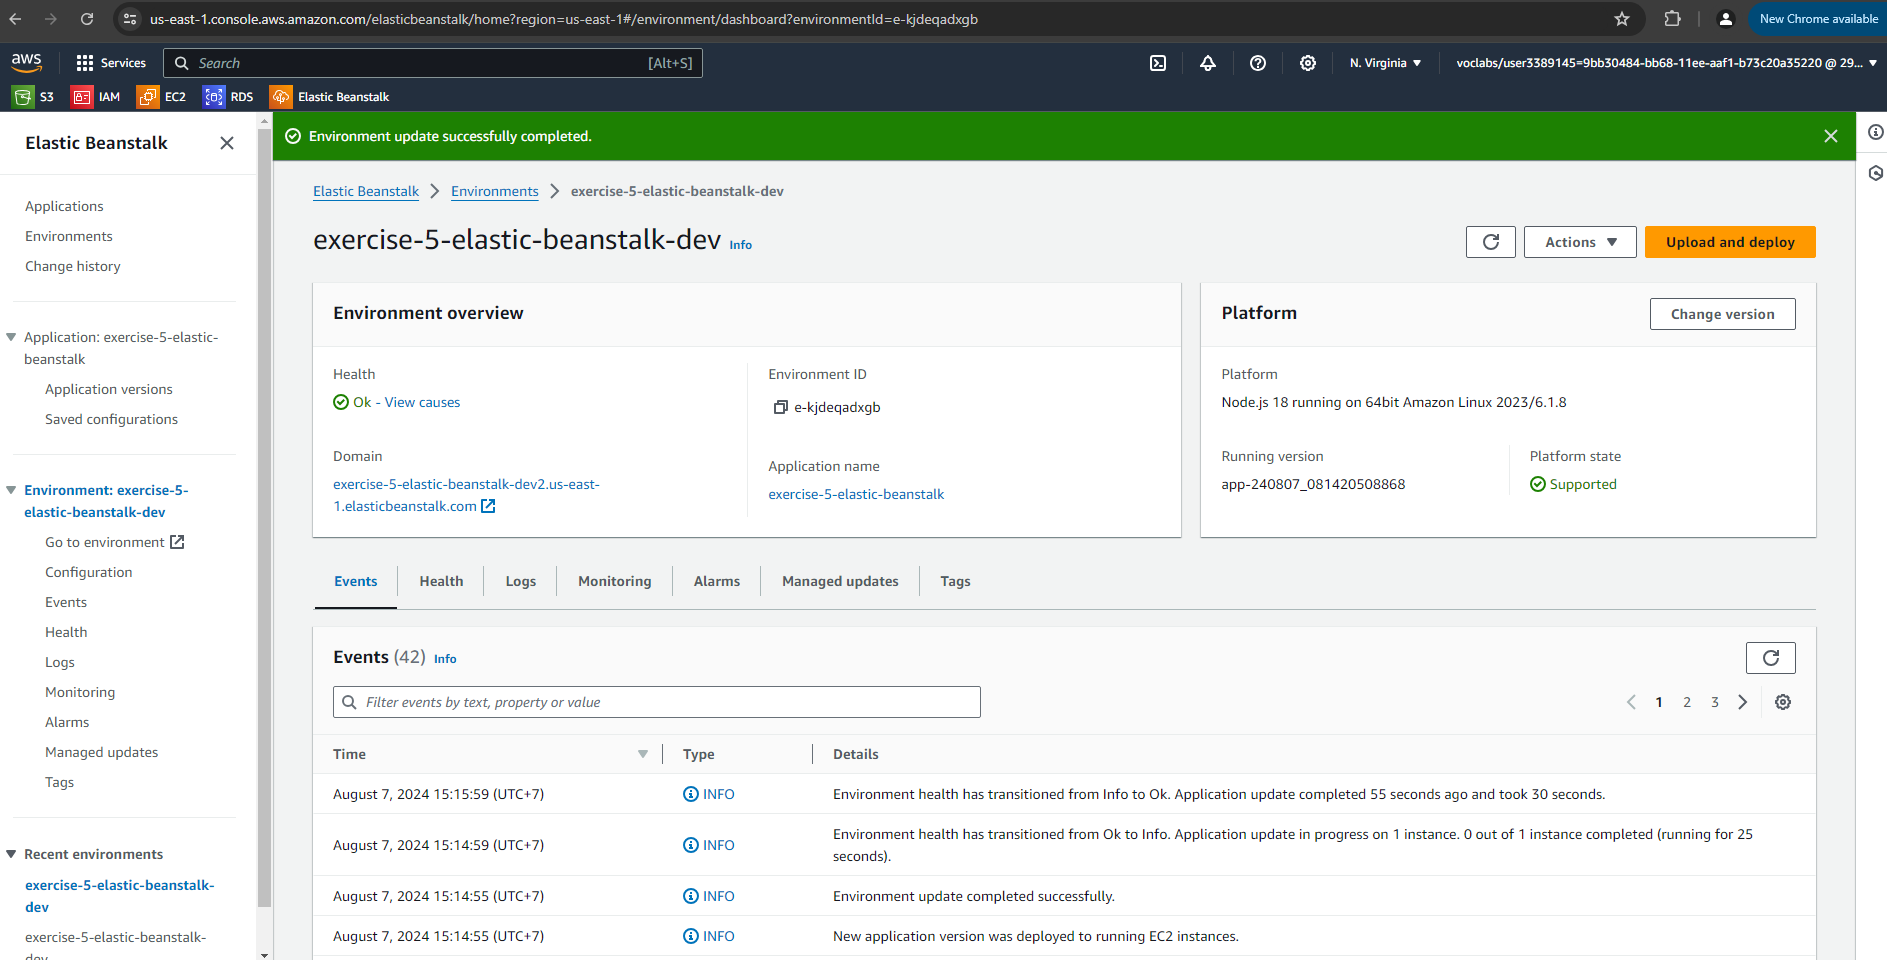
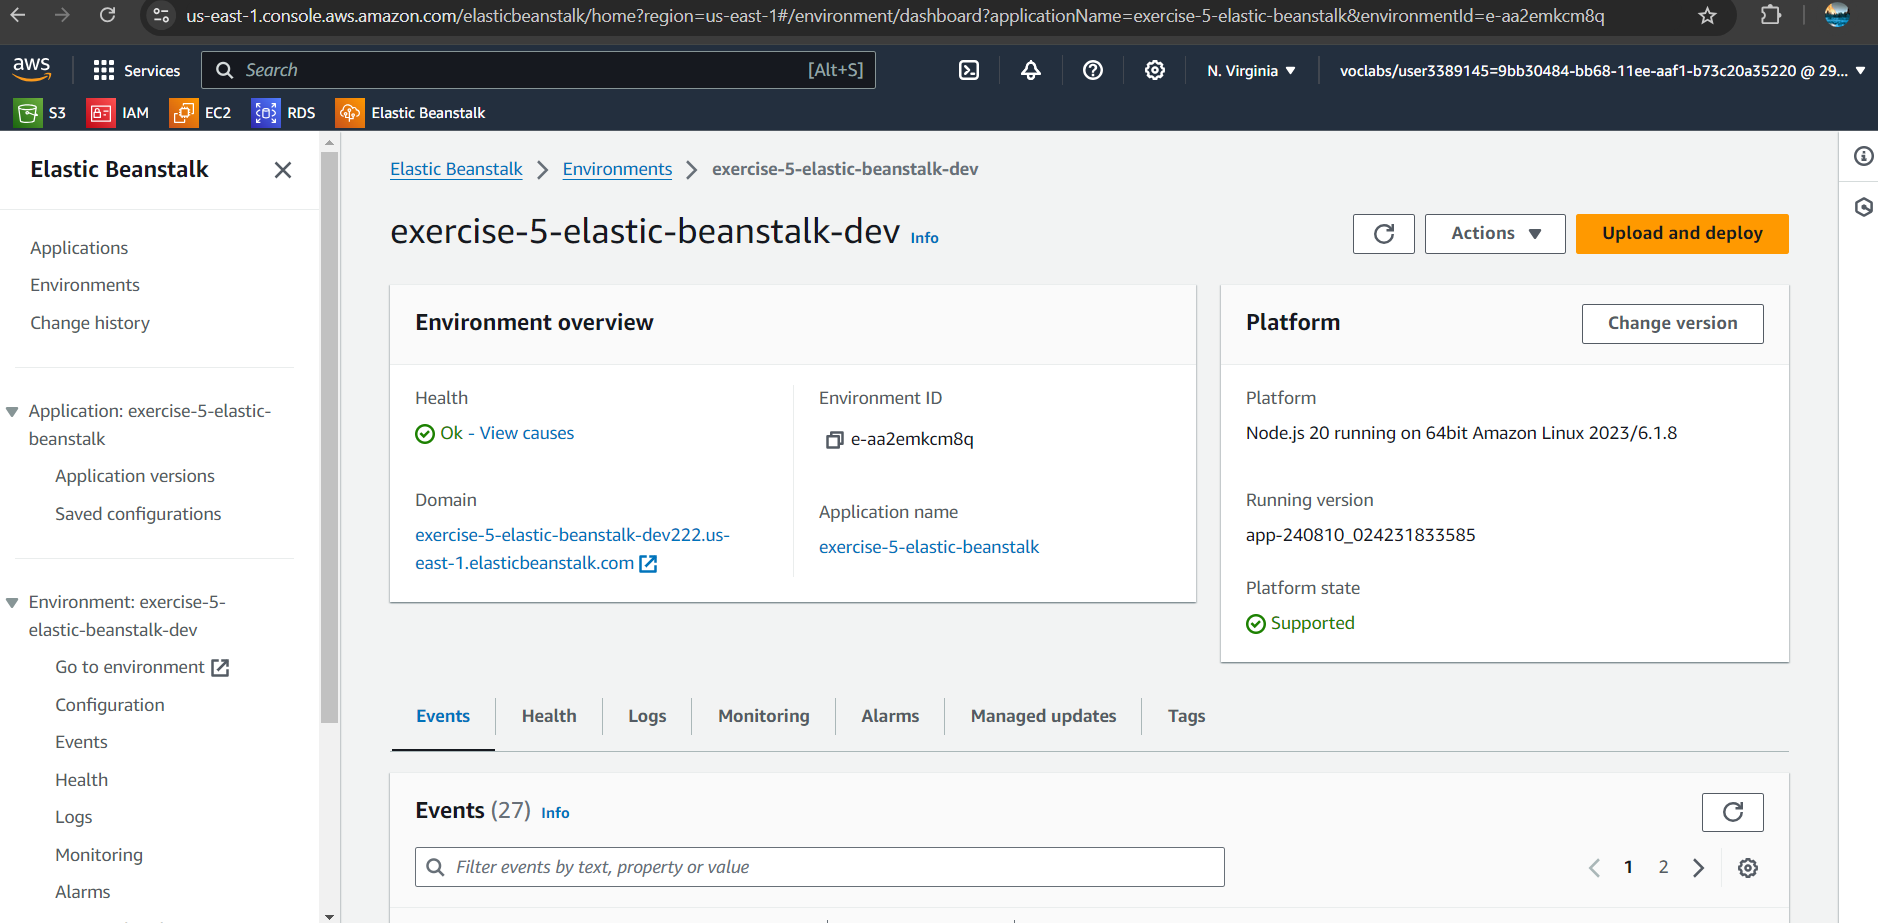
update

diff --git a/README.md b/README.md
@@ -1,5 +1,5 @@
 # udacity-tweets-app
-O
+
 This is a simple tweeter like application server.
 
 ***
@@ -62,3 +62,6 @@ curl --location 'http://localhost:8080/images' \
 --form 'file=@"./puppy.jpeg"'                
 {"url":"https://udacity-tweets-bucket.s3.us-east-1.amazonaws.com/1684421206489_file_puppy.jpeg"}     
 ```
+EB_URL = http://exercise-5-elastic-beanstalk-dev222.us-east-1.elasticbeanstalk.com
+
+TEST = http://exercise-5-elastic-beanstalk-dev222.us-east-1.elasticbeanstalk.com/filteredimage?image_url=https://upload.wikimedia.org/wikipedia/commons/b/bd/Golden_tabby_and_white_kitten_n01.jpg
